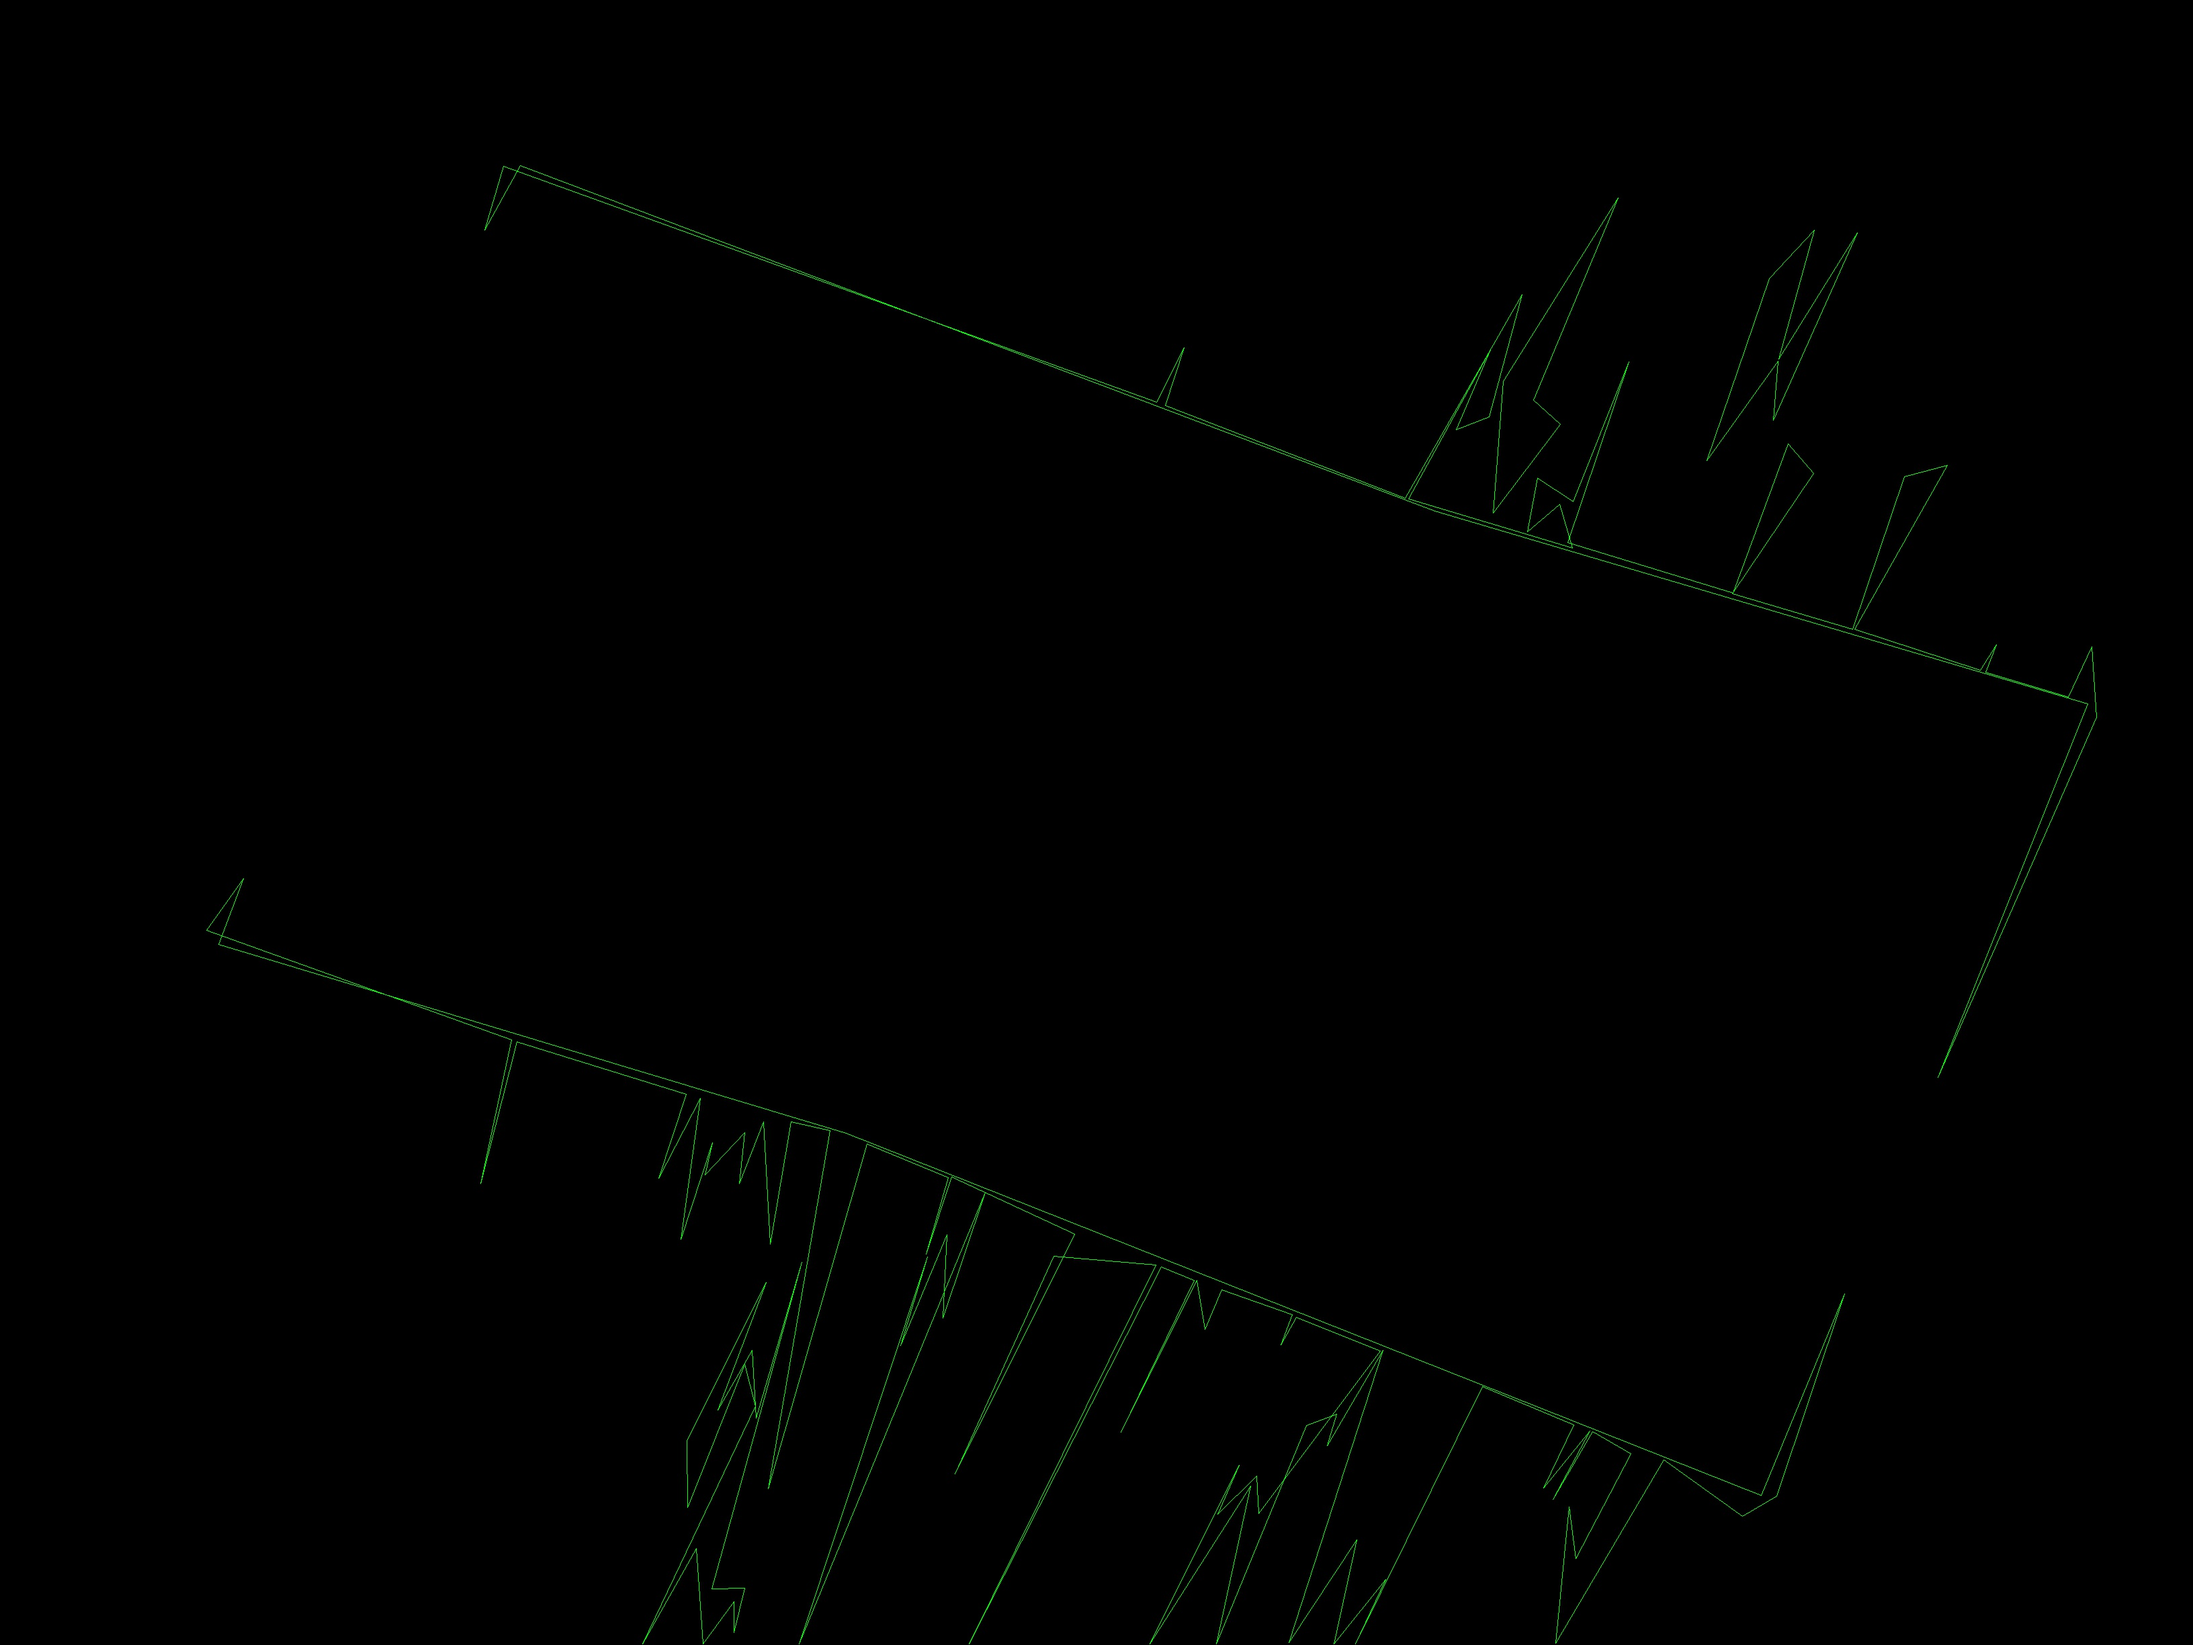
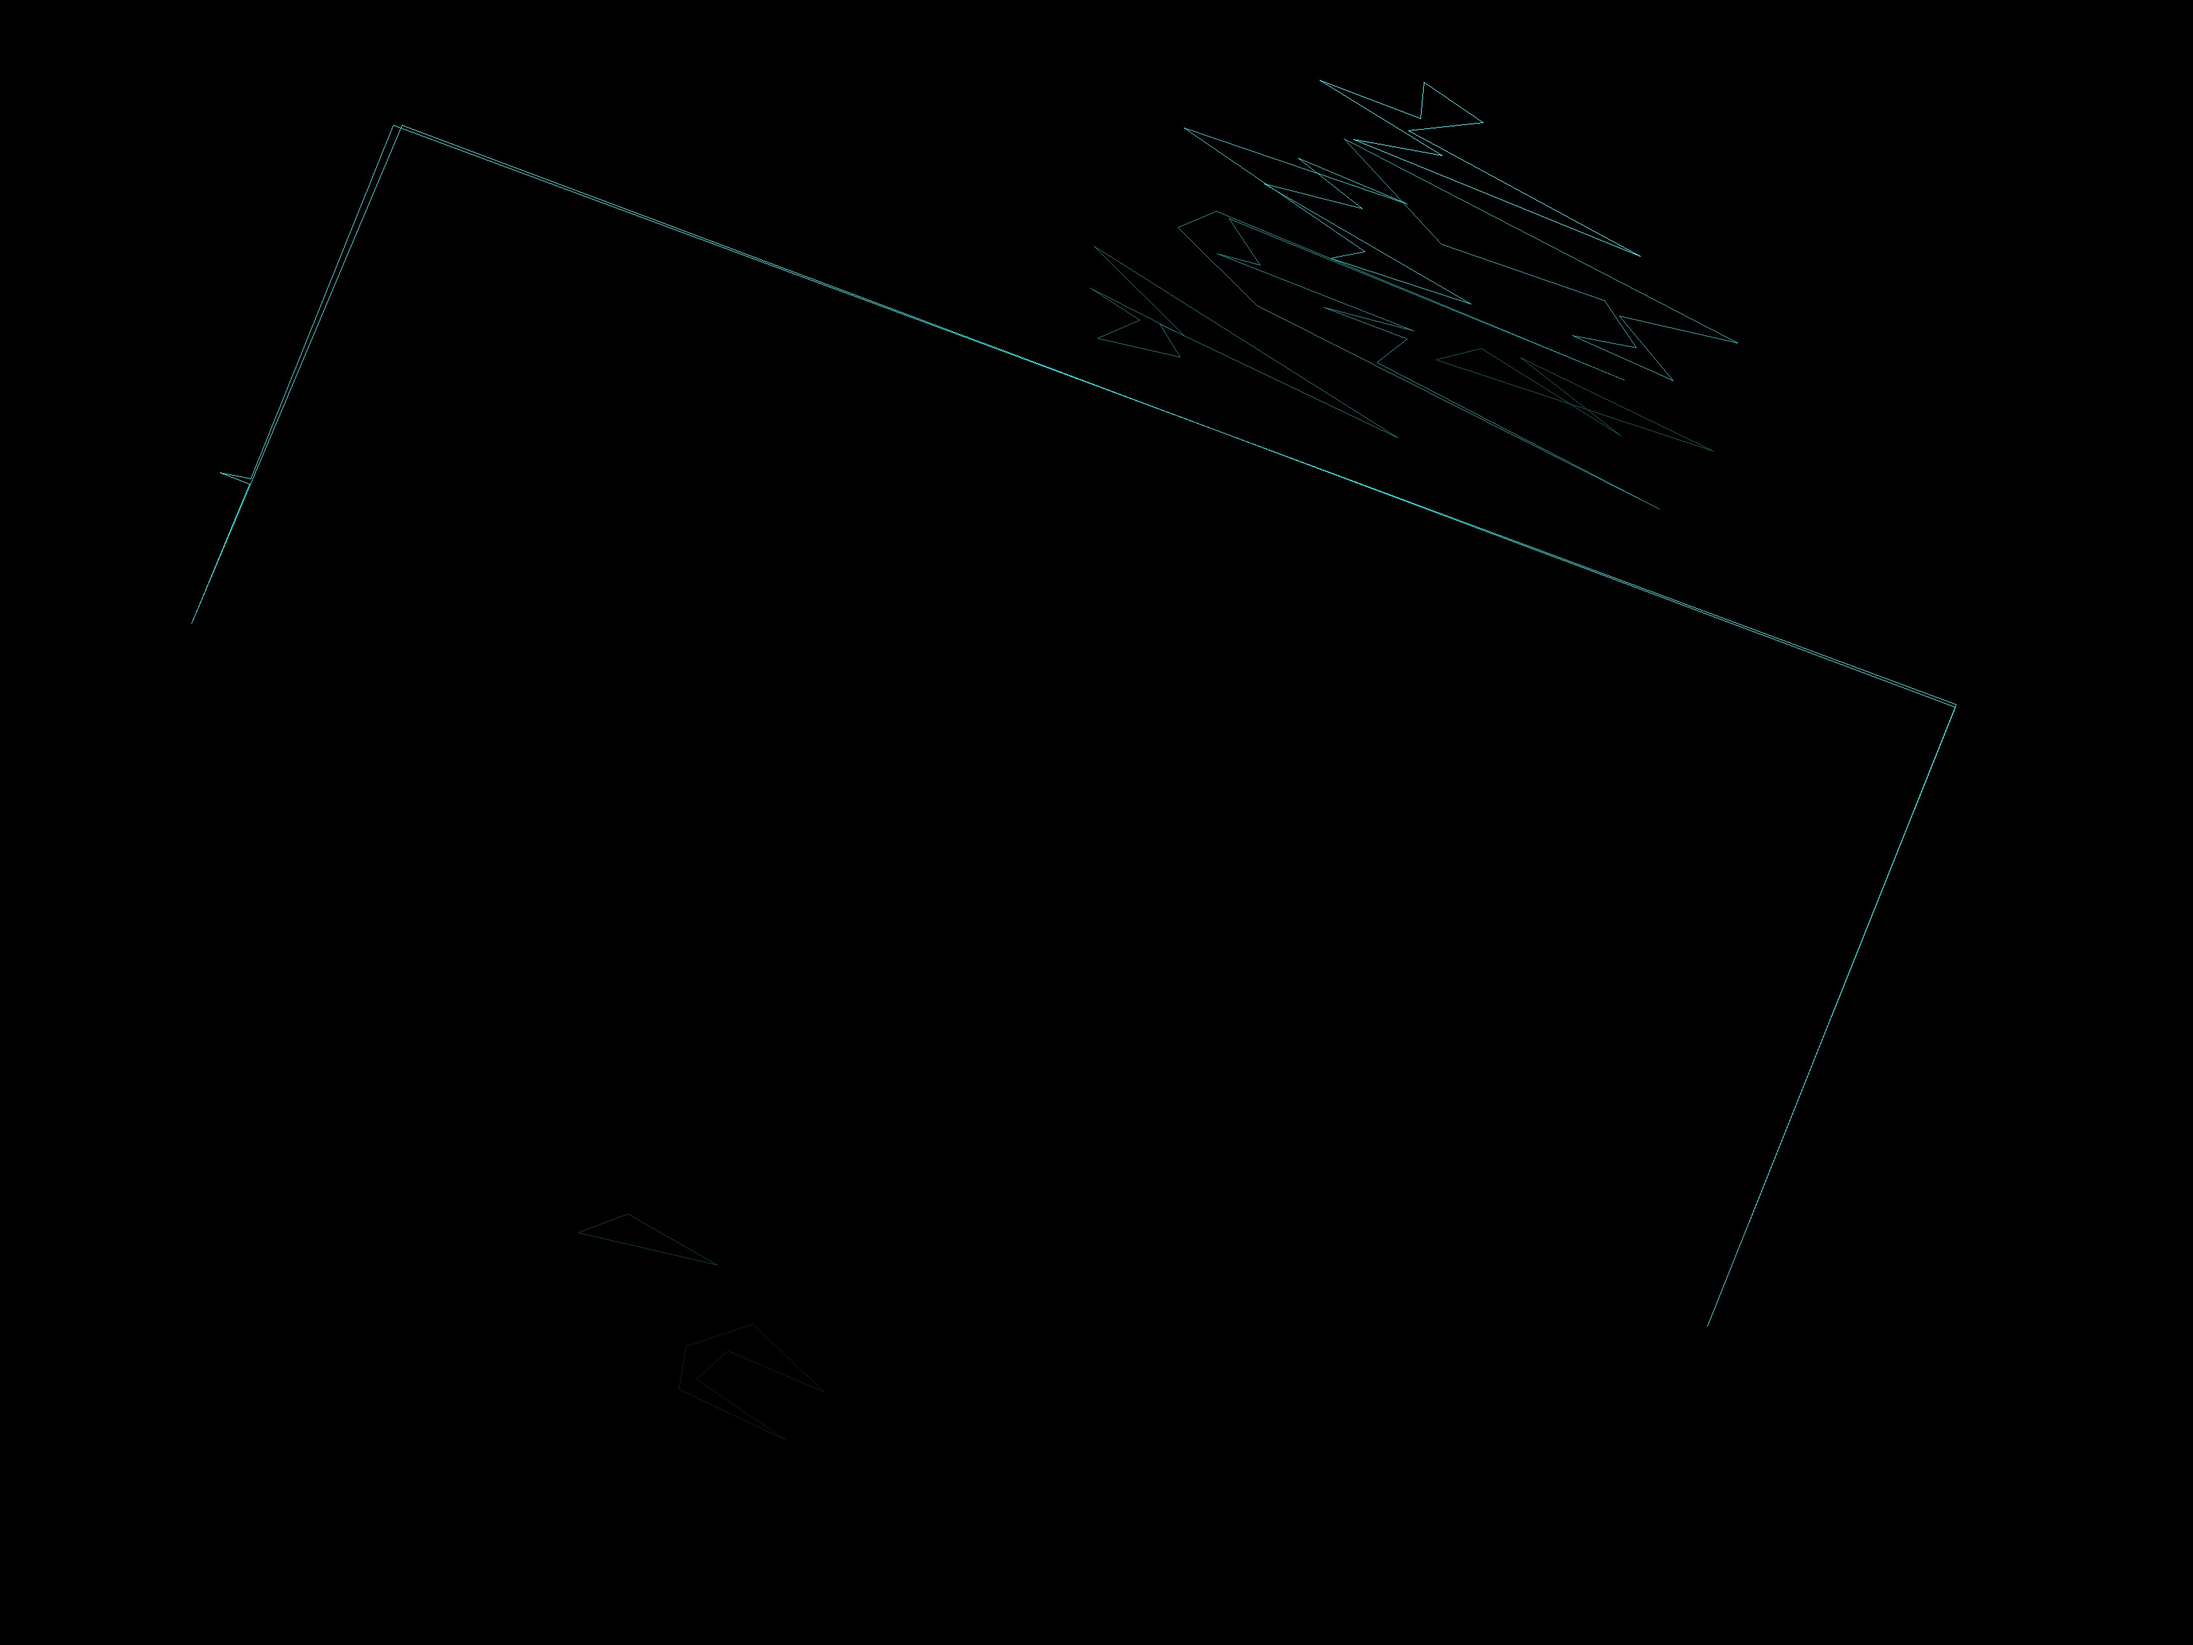
trying with corner detect...
keep gun up, over water,may the force be with you

diff --git a/ocr/corners.cc b/ocr/corners.cc
@@ -17,7 +17,9 @@ using namespace std;
 // http://stackoverflow.com/questions/6555629/algorithm-to-detect-corners-of-paper-sheet-in-photo
 void corners()
 {
-   Mat mat = imread( "./pics/heb.jpg");
+   // Mat mat = imread( "./pics/heb.jpg");
+   Mat mat = imread( "./pics/heb_new.jpg");
+   // Mat mat = imread( "./pics/heb2.jpg");
 
    cv::cvtColor(mat, mat, CV_BGR2GRAY);
    cv::GaussianBlur(mat, mat, cv::Size(3,3), 0);
@@ -31,11 +33,15 @@ void corners()
    std::vector<cv::Vec4i> lines;
    lines.clear();
    cv::HoughLinesP(edges, lines, 1, CV_PI/180, 25);
+
+   std::cout << "lines count: " << lines.size()  << std::endl;
+
    std::vector<cv::Vec4i>::iterator it = lines.begin();
    for(; it!=lines.end(); ++it) {
      cv::Vec4i l = *it;
      cv::line(edges, cv::Point(l[0], l[1]), cv::Point(l[2], l[3]), cv::Scalar(255,0,0), 2, 8);
    }
+
    std::vector< std::vector<cv::Point> > contours;
    cv::findContours(edges, contours, CV_RETR_EXTERNAL, CV_CHAIN_APPROX_TC89_KCOS);
    std::vector< std::vector<cv::Point> > contoursCleaned;
@@ -43,16 +49,32 @@ void corners()
      if (cv::arcLength(contours[i], false) > 100)
        contoursCleaned.push_back(contours[i]);
    }
-   std::vector<std::vector<cv::Point> > contoursArea;
 
+   std::cout << "contoursCleaned count: " << contoursCleaned.size()  << std::endl;
+
+   std::vector<std::vector<cv::Point> > contoursArea;
    for (int i=0; i < contoursCleaned.size(); i++) {
-     if (cv::contourArea(contoursCleaned[i]) > 10000){
+     if (cv::contourArea(contoursCleaned[i]) > 5000){
        contoursArea.push_back(contoursCleaned[i]);
+       std::cout << "carea points count: " << contoursCleaned[i].size() << std::endl;
      }
    }
+
+   std::cout << "contoursArea count (this is where the animal stinks): " <<  contoursArea.size()  << std::endl;
+
    std::vector<std::vector<cv::Point> > contoursDraw (contoursCleaned.size());
+   // Mat drawing = Mat::zeros( mat.size(), CV_8UC3 );
    for (int i=0; i < contoursArea.size(); i++){
      cv::approxPolyDP(Mat(contoursArea[i]), contoursDraw[i], 40, true);
+
+     std::cout << "draw lines count: " << contoursDraw[i].size() << std::endl;
+
+     // std::vector<std::vector<cv::Point> > ctemp;
+     // ctemp.push_back(contoursDraw[i]);
+     // cv::drawContours(drawing, ctemp, -1, cv::Scalar(0 , 0, 255),1);
+     // std::ostringstream filename;
+     // filename <<  "./img_pre/cor0" << i << ".jpg";
+     // cv::imwrite( filename.str(), drawing);
    }
    Mat drawing = Mat::zeros( mat.size(), CV_8UC3 );
    cv::drawContours(drawing, contoursDraw, -1, cv::Scalar(0,255,0),1);
